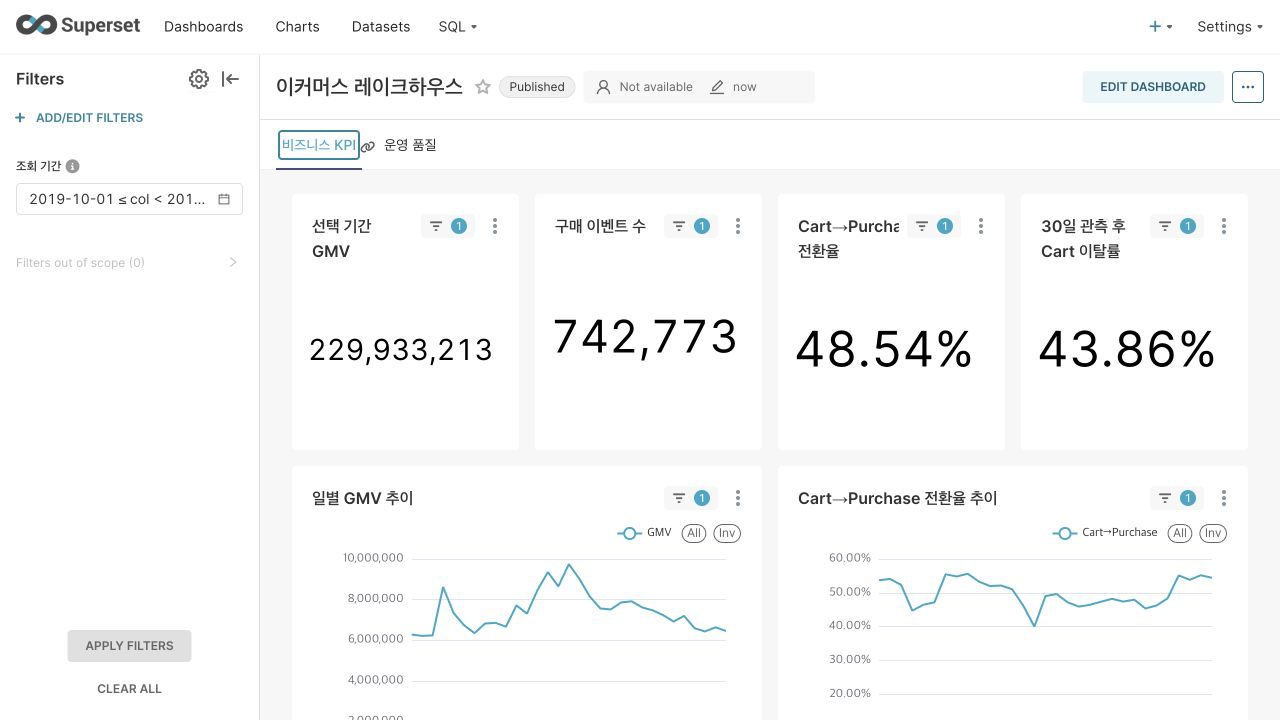
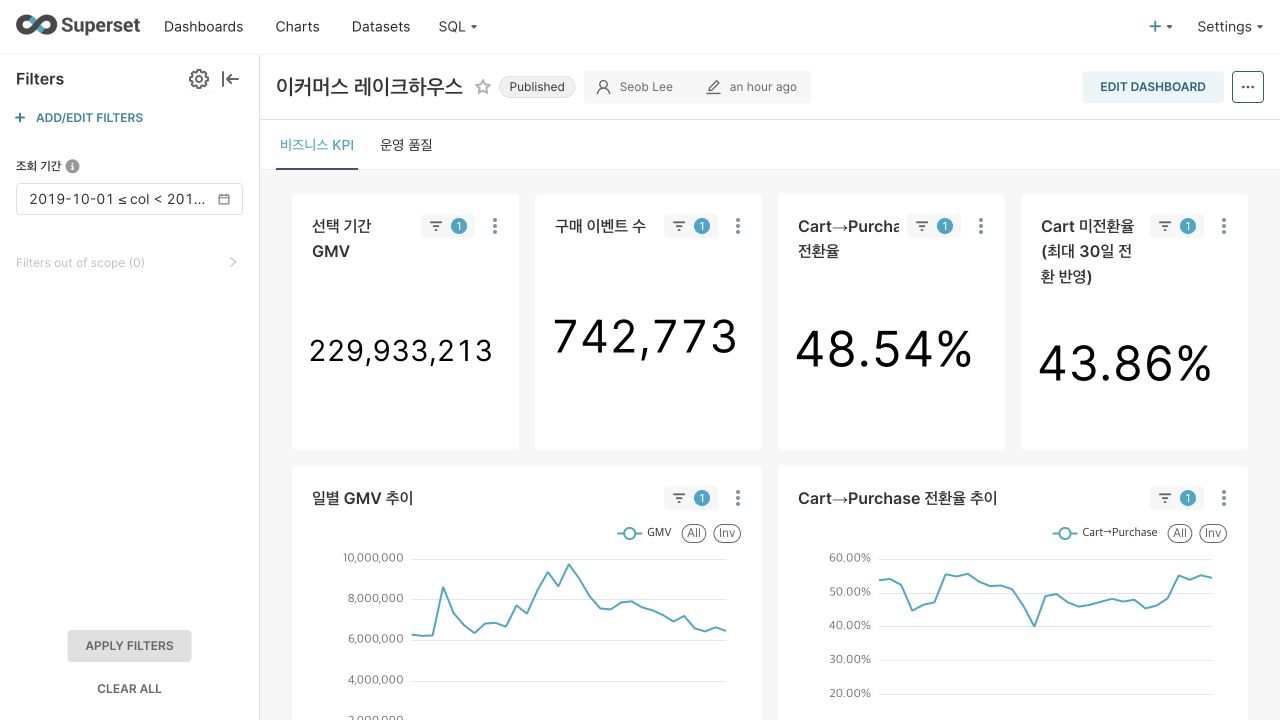
docs: 프로젝트 구성 및 대시보드 문서화

diff --git a/README.md b/README.md
@@ -1,144 +1,127 @@
-# 최종 프로젝트 — 이커머스 행동 로그 기반 Iceberg 데이터 플랫폼
+# 이커머스 행동 로그 기반 Iceberg 데이터 플랫폼
 
-## 1. 도메인 정의 + 데이터셋 + 핵심 KPI
+Kafka로 재생한 이커머스 행동 로그를 Flink로 S3 Bronze에 적재하고, Spark와 Iceberg로
+Silver/Gold를 구성한 뒤 Athena와 Superset으로 조회하는 데이터 플랫폼 프로젝트다.
 
-### 1-1. 데이터셋
+| 영역 | 상태 | 범위 |
+| --- | --- | --- |
+| 수집·Bronze | 완료 | Kafka 토픽 분기, Flink 독립 잡, S3 Parquet 적재 |
+| Silver·Gold | 전체 적재 완료·증분 보완 예정 | Iceberg 테이블 7개, 일 단위 Gold 5개 |
+| 조회·대시보드 | 완료 | Superset 데이터셋 7개·지표 22개·차트 15개, PostgreSQL 메타DB·Redis 캐시 |
+| Iceberg 관리 | 실험 완료 | 컴팩션·스냅샷 만료·고아 파일 정리 검증 |
+| 운영 설계 | 진행 예정 | 헬스 쿼리 5~10개, Iceberg 관리 자동화, 100x 확장, 장애 시나리오, 증분 처리 보완 |
 
-**선정: [eCommerce behavior data from multi category store](https://www.kaggle.com/datasets/mkechinov/ecommerce-behavior-data-from-multi-category-store)** (Kaggle, 제공자 mkechinov / REES46 Marketing Platform)
+## 1. 도메인과 핵심 KPI
 
-대형 멀티카테고리 온라인 스토어의 실제 사용자 행동 이벤트 로그. `event_type`(view / cart / purchase), `event_time`(초 단위 실제 타임스탬프), `product_id`, `category_id`, `category_code`, `brand`, `price`, `user_id`, `user_session` 컬럼으로 구성. 전체 2019-10~2020-04(7개월, 약 2.85억 건)이 대상이며, 현재는 **2019-10 한 달(4,245만 건, 일 평균 136.9만 건)** 로 파이프라인을 구성하고 있다.
+데이터셋은 Kaggle의 [eCommerce behavior data from multi category store](https://www.kaggle.com/datasets/mkechinov/ecommerce-behavior-data-from-multi-category-store)다.
+전체 7개월 약 2.85억 건 중 현재는 **2019년 10월 4,245만 건**을 사용한다.
 
-### 1-2. 가정 페르소나 ↔ 지표 대응
+| KPI | 정의 | 대상 |
+| --- | --- | --- |
+| GMV | `purchase` 이벤트의 `price` 합 | 경영진 |
+| 퍼널 전환율 | `(user_session, product_id)`별 view·cart·purchase 존재 여부 | 마케팅 |
+| Cart 이탈률·미전환 금액 | cart 이후 purchase로 연결되지 않은 비율과 금액 | 마케팅 |
+| 카테고리 GMV | 카테고리별 GMV 기여도 | 상품팀 |
+| 운영 품질 | 지연, NULL, 가격 이상치, Iceberg 테이블 상태 | 데이터팀 |
 
+`order_id`, `cart_id`, `quantity`가 없어 실제 주문 단위는 복원할 수 없다. 따라서 대시보드에서도
+**구매 건수**가 아니라 **purchase 이벤트 수**로 표기한다.
 
-| 이해관계자    | 묻는 질문              | 대응 지표                      | 위치     |
-| -------- | ------------------ | -------------------------- | ------ |
-| **경영진**  | 오늘 얼마 벌었나          | 일별 매출(GMV)                 | 핵심 1   |
-| **마케팅팀** | 어디서 이탈하고, 얼마를 놓치나  | 퍼널 전환율 / Cart 이탈률·놓친 매출    | 핵심 2·3 |
-| **상품팀**  | 어떤 카테고리·상품이 매출을 끄나 | 카테고리·브랜드 기여도 / 상품 파레토      | 보조     |
-| **데이터팀** | 파이프라인이 건강한가        | 파이프라인 지연 / 데이터 품질 / 테이블 헬스 | 운영 탭   |
-
-
-### 1-3. 핵심 KPI 3개
-
-**결과 → 과정 → 손실** 순으로 이커머스 퍼널 전체를 한 줄로 설명하도록 구성했다.
-
-
-| #   | KPI                  | 답하는 질문       | 정의                                                                             |
-| --- | -------------------- | ------------ | ------------------------------------------------------------------------------ |
-| 1   | **일별 매출 (GMV)**      | 얼마 버는가       | `event_type = purchase`의 `price` 합. 이벤트 시점 가격 사용                               |
-| 2   | **퍼널 전환율**           | 얼마나 잘 전환되는가  | view → cart → purchase 단계별 전환율. `(user_session, product_id)` 기준으로 실제 연결된 것만 집계 |
-| 3   | **Cart 이탈률 / 놓친 매출** | 어디서 얼마를 놓치는가 | 담고 사지 않은 비율과 그 금액                                                              |
-
-
-#### 보조 지표 (드릴다운 탭 — 상품팀)
-
-- **카테고리 / 브랜드별 매출 기여도** — GMV를 카테고리·브랜드 축으로 분해
-- **상품 파레토** — 상위 1% / 5% / 10% 상품의 GMV 점유율
-
-#### 운영 메트릭 (운영 탭 — 데이터팀)
-
-- **파이프라인 지연 (SLA)** — Kafka 발행 → S3 적재 구간별 지연
-- **데이터 품질** — event_type 비율, null 비율, 가격 이상치 추이
-- **Iceberg 테이블 헬스** — 파일 수·평균 크기
-
----
-
-## 2. 전체 아키텍처 (그림 + 설명)
+## 2. 전체 아키텍처
 
 ![데이터 파이프라인 아키텍처](assets/ecommerce_data_pipeline_diagram.png)
 
-### 2-0. 구간별 상세
+| 구간 | 구성 | 핵심 결정 |
+| --- | --- | --- |
+| 수집 | CSV gzip → Kafka | `event_type`별 3개 토픽, `key=user_id` |
+| 스트리밍 | Flink Table API | 토픽별 독립 잡과 체크포인트 복구 |
+| Bronze | S3 plain Parquet | 수집 시각 파티션, append-only 원본 보존 |
+| Silver·Gold | Spark + Iceberg + Glue | 발생 시각 파티션, 재처리와 과거 갱신 지원 |
+| 조회·BI | Athena + Superset | 서버리스 조회, 비즈니스·운영 탭 분리, PostgreSQL 메타DB·Redis 캐시 |
 
+Flink는 레코드 단위 수집과 복구에, Spark는 MERGE·self-join·일 단위 집계에 사용한다.
+조회는 상시 클러스터가 필요 없는 Athena로 통일했다.
 
-| 구간                | 구성                                                                                                                 | 비고                                    |
-| ----------------- | ------------------------------------------------------------------------------------------------------------------ | ------------------------------------- |
-| **수집**            | `kafka_producer.py` — `event_type`으로 토픽 분기, `event_id`(sha256) 부여, 발행 간격만 `--speed` 배속으로 압축(`event_time` 값은 원본 유지) | 구현 완료                                 |
-| **버퍼**            | Kafka (KRaft, 단일 브로커) — 토픽 3개 × 파티션 3, `key = user_id`                                                             | 동일 유저 이벤트가 항상 같은 파티션으로                |
-| **스트리밍 처리**       | `raw_zone_consumer.py` (Flink Table API) — **토픽당 독립 잡 1개, 총 3개**                                                   | 한 잡이 죽어도 나머지 zone은 계속 적재              |
-| **Bronze**        | S3 plain Parquet, append-only — `raw/{zone}/raw_datetime=YYYY-MM-DD-HH/`                                      | 체크포인트 30초 간격, `group-offsets`로 재시작 복구 |
-| **Silver / Gold** | Spark 배치 → Iceberg 테이블 (Glue 카탈로그). DDL은 `code/ddl/`                                                               | 테이블 정의 완료, 적재 잡 작성 예정                 |
-| **조회 / BI**       | Athena(Glue Catalog) → Superset                                                                                    | 비즈니스 KPI 탭 + 운영 메트릭 탭                 |
-| **오케스트레이션**       | Airflow — Silver/Gold 배치 + Iceberg 매니지먼트(컴팩션 / 스냅샷 만료)                                                             | 예정                                    |
+## 3. 메달리온 계층
 
+| 계층 | grain | 역할 |
+| --- | --- | --- |
+| Bronze | 이벤트 1건 | 원본 보존과 수집 메타데이터 추가 |
+| `silver_events` | 이벤트 1건 | dedup·타입 캐스팅·카테고리 분해 |
+| `silver_funnel` | `(user_session, product_id)` | 흩어진 행동을 하나의 여정으로 조립 |
+| Gold 5개 | 날짜·차원별 집계 | KPI와 운영 지표 제공 |
 
-### 2-1. 계층별 엔진 선택 근거
+GMV는 이벤트 중복 구매가 접히지 않도록 `silver_events`에서 계산한다. 전환율·이탈률은
+`silver_funnel`에서 계산한다. 서로 다른 grain의 테이블에서 같은 지표를 중복 계산하지 않는다.
 
+cross-session 전환은 30일 동안 추적한다. 7일에서 30일로 늘리자 지연 전환은
+340,535건에서 **394,493건**으로 증가했다. 최대 전환 간격이 29.97일로 경계에 닿고 데이터도
+31일뿐이므로, 이 값은 최종치가 아니라 **관측 가능한 하한**이다.
 
-| 구간                     | 엔진                 | 근거                                                                                                      |
-| ---------------------- | ------------------ | ------------------------------------------------------------------------------------------------------- |
-| Kafka → Bronze         | **Flink**          | 레코드 단위 스트리밍 처리 (아래 참고)                                                                              |
-| Bronze → Silver → Gold | **Spark 배치**       | KPI가 전부 일 단위 집계라 서브분 신선도가 불필요. MERGE·self-join 등 관계형 연산 중심                                              |
-| 조회                     | **Athena**         | 쿼리당 스캔 과금 방식으로 계속 리소스를 점유하는 Trino보다 더 적합                                                                |
-| BI                     | **Superset** (미확정) | 셀프호스팅이라 필요할 때만 기동하면 되고 `PyAthena`로 Athena에 연결된다. 대안 검토 후 확정 예정                                          |
+Gold는 KPI별 SQL과 테이블로 분리하며 모두 `overwritePartitions()`로 날짜 파티션을 다시 계산한다.
 
+| 테이블 | 역할 |
+| --- | --- |
+| `gold_daily_gmv` | GMV |
+| `gold_funnel_daily` | 전환율·이탈률·미전환 금액 |
+| `gold_category_gmv` | 카테고리·브랜드·상품 기여도 |
+| `gold_pipeline_sla` | 처리 지연 |
+| `gold_data_quality` | NULL·가격·행동 품질 |
 
-**Flink 선택 이유** — 현재 KPI는 일 단위 집계라 초 단위 처리 지연이 중요하지 않지만, 향후 실시간 탐지·알림 요구를 고려해 레코드 단위 처리가 가능한 Flink를 택했다.
+## 4. Iceberg가 필요한 이유
 
-## 3. 메달리온 3계층 의사결정
+후속 구매가 발생하면 과거 `silver_funnel` 행의 `converted_later`가 바뀐다. plain Parquet에서는
+파일 재작성과 이력 관리를 직접 구현해야 하지만, Iceberg는 MERGE·파티션 교체·스냅샷으로 처리한다.
 
-> 각 결정의 상세 근거와 실측 데이터는 [`code/ddl/README.md`](code/ddl/README.md), DDL은 [`code/ddl/`](code/ddl/) 참고.
+| 검증 항목 | 결과 |
+| --- | --- |
+| COW 재작성 | 한 컬럼 UPDATE에 1,329,334행 / 105~118MB 재작성 |
+| 파티션 가지치기 | 하루 2.28MB vs 전체 31일 78.3MB, 약 34배 차이 |
+| 지연 전환 | 30일 기준 394,493건 |
 
+최근 30일 행이 후속 구매로 갱신될 수 있으므로 스냅샷도 최소 30일 보관하는 방향으로 설계한다.
+`expire_snapshots`, `remove_orphan_files`, 데이터 파일·매니페스트 재작성을 직접 실행해 동작과 제약을 확인했다.
 
-| 계층     | 포맷            | 파티션 기준                   | 핵심 결정        |
-| ------ | ------------- | ------------------------ | ------------ |
-| Bronze | plain Parquet | **수집 시점** (`ingest_ts`)  | 판단 없이 원본 보존  |
-| Silver | Iceberg       | **발생 시점** (`event_time`) | 테이블 2개로 분리   |
-| Gold   | Iceberg       | 집계 날짜                    | KPI별 일 단위 집계 |
+## 5. 운영 헬스 체크 쿼리
 
+`rewrite_data_files`, `rewrite_position_delete_files`, `rewrite_manifests`의 전후 상태를 비교하는
+컴팩션 데모를 구현했다. Superset 운영 탭에서는 일별 행 수·지연·NULL·가격 이상치와 Iceberg 파일
+상태를 확인한다. 메타테이블 기반 일상 점검 쿼리 5~10개와 Iceberg 관리 자동화는 아직 미구현이다.
 
-### 3-1. Bronze — plain Parquet
+## 6. Superset 대시보드
 
-Kafka에서 받은 것을 **판단 없이 그대로** 보존한다. 덧붙이기(수집 시각, 파티션 키, Kafka 좌표)와 포맷 변환까지만 하고, dedup·타입 캐스팅·join은 Silver로 미룬다. 파티션을 **수집 시점**으로 잡아 늦게 도착한 이벤트도 항상 현재 파티션에 쌓이므로 과거 파티션을 재오픈할 일이 없다.
+기본 조회 기간은 `2019-10-01 ≤ date < 2019-11-01`이며 총 15개 차트를 두 탭으로 분리했다.
 
-**테이블 포맷(Iceberg / Paimon)을 쓰지 않은 이유** — 쌓기만 하는 단순 적재 구간이라 업서트·스냅샷·타임트래블을 쓸 데가 없다. 다만 볼륨이 작은 토픽에서 스몰파일이 이미 관측돼, 전환 여부는 실측을 근거로 재판단한다.
+![Superset 비즈니스 KPI 탭](assets/superset_business_kpi.png)
 
-### 3-2. Silver — 테이블 2개
+![Superset 운영 품질 탭](assets/superset_operations.png)
 
+- **비즈니스 KPI**: GMV, purchase 이벤트 수, Cart→Purchase 전환율, Cart 미전환율(최대 30일 전환 반영),
+  일별 추이, 카테고리 GMV, 미전환 장바구니 금액
+- **운영 품질**: 일별 행 수, NULL 비율, `price ≤ 0`, 세션 내 view 없는 purchase,
+  파이프라인 지연, Iceberg 파일 수·평균 크기·행 수·최종 갱신 시각
 
-| 테이블             | grain (한 행 = )                    | 하는 일                 |
-| --------------- | --------------------------------- | -------------------- |
-| `silver_events` | 이벤트 1건                            | dedup·타입 캐스팅·카테고리 분해 |
-| `silver_funnel` | (`user_session`, `product_id`) 1쌍 | 흩어진 이벤트를 하나의 여정으로 조립 |
+원본 데이터에 통화 정보가 없어 금액에 통화 기호를 붙이지 않았다. Cart 이탈률은 30일 윈도우와
+31일 관측 기간의 영향을 받으므로 상한으로 해석한다.
 
+Gold의 `ALL` 행과 카테고리 행을 함께 집계하거나 여러 `dim_type`을 합치면 값이 조용히 중복된다.
+이를 가상 데이터셋 필터로 차단하고, 비율은 일별 비율의 평균 대신 `SUM(분자)/SUM(분모)`로 계산한다.
 
-**grain을 `(user_session, product_id)`로 잡은 이유** — `order_id` / `cart_id` / `quantity`가 모두 없어 **실제 거래 단위를 복원할 수 없다**(특히 `quantity`가 없음). 따라서 관측 가능한 범위에서 이게 최선으로 판단
+### Superset 구성
 
-**지표별 소스 테이블을 고정한다** — `silver_funnel`은 같은 세션에서 같은 상품을 두 번 산 경우가 한 행으로 접히므로, 이러한 경우 가격 컬럼이 있어도 **GMV를 여기서 뽑으면 과소집계된다.** GMV·카테고리·파레토는 `silver_events`에서, 전환율·이탈률·놓친 매출은 `silver_funnel`에서만 추출
+Superset은 Docker Compose로 구성하고 애플리케이션과 상태 저장소를 분리했다. 사용자·데이터베이스
+연결·대시보드 등의 메타데이터는 PostgreSQL 16에, 대시보드 필터와 Athena 조회 결과 캐시는
+Redis 7.2에 저장한다.
 
-**어트리뷰션은 두 개로 분리한다** — 세션 안에서 끝나는 전환(`purchased`)과 다른 세션에서 발생한 지연 전환(`converted_later`)은 시간 규모가 자릿수로 다른 별개 현상이다. 나눠두면 **세션 전환율은 확정 후 불변**이고, 지연 전환은 **최종 전환율에만 반영**된다.
+데이터베이스 연결부터 탭 배치와 기간 필터까지 Superset 공식 YAML 형식으로 export해
+[`dashboard/superset`](dashboard/superset)에 보관했다. 새 메타DB에서 이를 가져와 데이터셋 7개,
+차트 15개, 대시보드 1개가 복원되는 것도 확인했다.
 
-> 윈도우 값(세션 1시간 / cross-session 7일)은 임의로 잡은 초기값이다. Silver 구축 후 실제 분포를 측정해 확정할 예정
+현재 구성은 로컬 재현을 목적으로 한다. 비밀값과 환경별 설정은 `.env`로 분리했으며, 운영에서는
+PostgreSQL과 Redis를 관리형 서비스로 전환하고 IAM Role과 Secrets Manager를 사용하는 방향을
+고려했다.
 
-### 3-3. Gold — KPI별 집계
-
-
-| 테이블                 | 지표                      | 소스              | 갱신        |
-| ------------------- | ----------------------- | --------------- | --------- |
-| `gold_daily_gmv`    | 핵심 1 (GMV)              | `silver_events` | append    |
-| `gold_funnel_daily` | 핵심 2·3 (전환율, 이탈률·놓친 매출) | `silver_funnel` | **MERGE** |
-| `gold_category_gmv` | 보조 (기여도, 파레토)           | `silver_events` | append    |
-| `gold_pipeline_sla` | 운영 (지연)                 | `silver_events` | append    |
-| `gold_data_quality` | 운영 (품질)                 | `silver_events` | append    |
-
-
-Iceberg 테이블 헬스는 별도 테이블 없이 **메타테이블 직접 조회**로 처리한다.
-
-**MERGE가 필요한 건** `gold_funnel_daily` **하나:** cart → purchase 지연 때문에 upsert 필요. 나머지는 과거 값이 변하지 않아 append로 충분
-
-## 4. 이 도메인에서 Iceberg가 가장 가치 있는 지점
-
-*TODO* 
-
-## 5. 운영 헬스 체크 쿼리 모음
-
-*TODO*
-
-## 6. 대시보드 (스크린샷 + 운영 메트릭)
-
-*TODO*
-
-## 7. 100x 스케일 아웃 시나리오 (설계만, 구현 X)
+## 7. 100x 스케일 아웃 시나리오
 
 *TODO*
 
@@ -146,6 +129,18 @@ Iceberg 테이블 헬스는 별도 테이블 없이 **메타테이블 직접 조
 
 *TODO*
 
-## 9. 멱등성 / 재처리 가능성 설계
+## 9. 멱등성과 재처리
 
-*TODO*
+| 대상 | 방식 |
+| --- | --- |
+| `silver_events` | `event_id` MERGE |
+| `silver_funnel` | `(user_session, product_id)` MERGE |
+| Gold 5개 | 날짜별 `overwritePartitions()` |
+
+동일한 Bronze 데이터를 다시 처리해도 `silver_events`는 `event_id`를 기준으로 기존 행과 병합하므로
+이벤트가 중복 적재되지 않는다.
+`silver_funnel`의 경우는 세션·상품 복합 키로 병합하며, 전체 적재 결과
+27,785,942행에서 키 중복이 없음을 확인했다.
+Gold의 테이블들은 영향을 받는 날짜의 집계를 완전히 다시 만든 뒤 해당 파티션을 교체한다.
+전체 Gold 배치를 반복 실행했을 때도 행 수가 변하지 않는 것을 확인했다.
+재처리 ) 추후 작성
